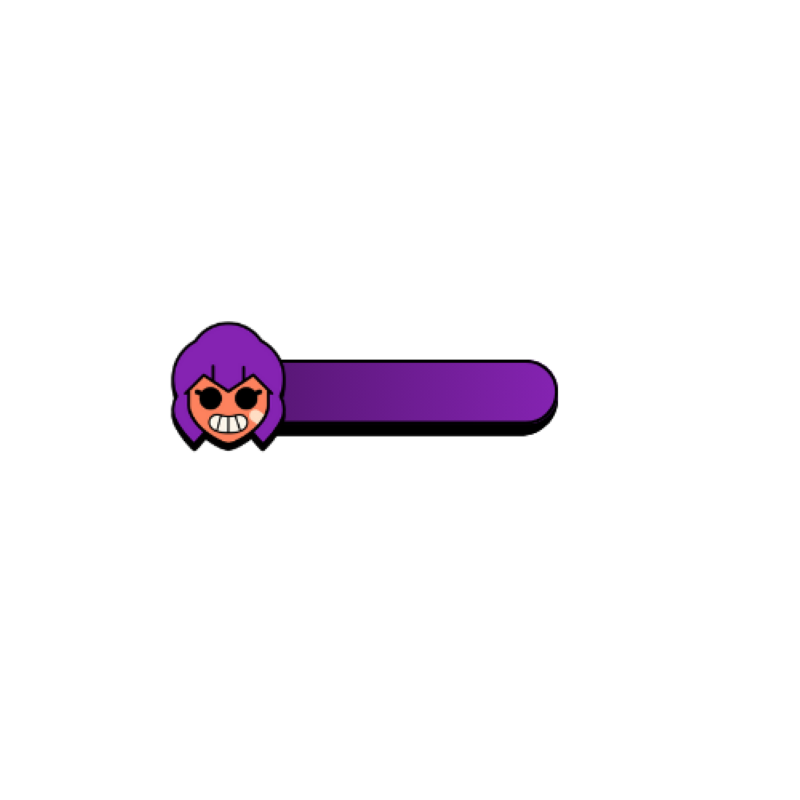
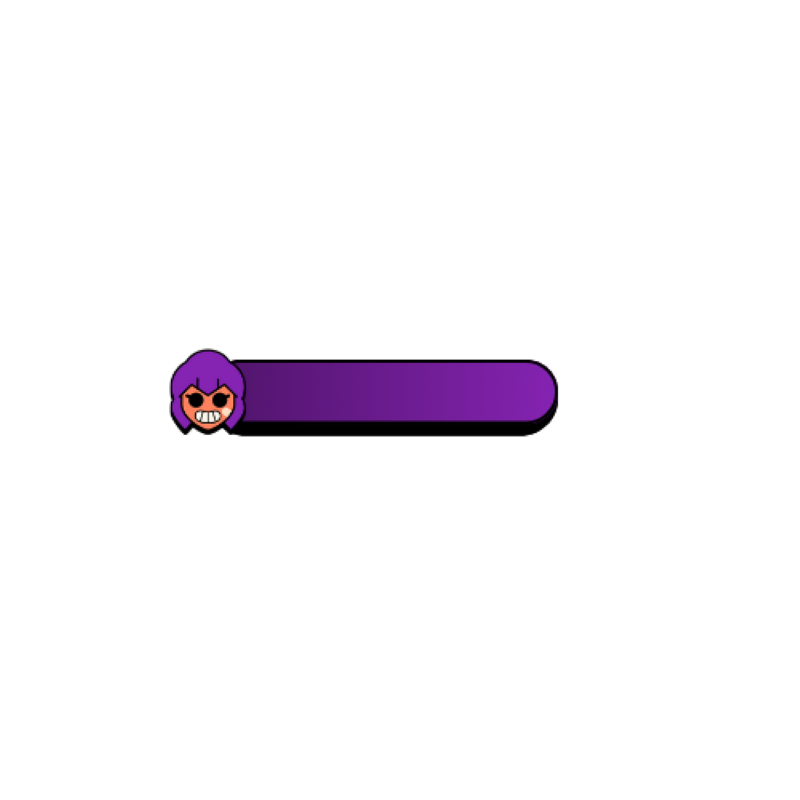
feat: add level display

Changed region(s): [[0.1875, 0.375, 0.375, 0.5625]]

diff --git a/methods.py b/methods.py
@@ -7,6 +7,7 @@ imageDraw = ImageDraw.Draw(image)
 
 display_trophies = Image.open("assets/img/display_trophies_bar.png")
 display_max_trophies = Image.open("assets/img/display_max_trophies_bar.png")
+display_level = Image.open("assets/img/display_level_bar.png")
 
 def _change_font(size):
     font = ImageFont.truetype("assets/fonts/lilitaone-regular-webfont (2).ttf", size)
@@ -25,7 +26,6 @@ def profile(data):
     name_color = data['nameColor']
     trophies = data['trophies']
     highest_trophies = data['highestTrophies']
-    exp = data['expPoints']
     level = data['expLevel']
     solo_win = data['soloVictories']
     duo_win = data['duoVictories']
@@ -45,12 +45,16 @@ def profile(data):
     imageDraw.text((215, 0), name, fill=name_color, font=_change_font(100))
 
     #Trophies
-    image.paste(display_trophies, (325, -350), mask=display_trophies)
-    imageDraw.text((650, 10), str(trophies), fill="black", font=_change_font(50))
+    image.paste(display_trophies, (325, -335), mask=display_trophies)
+    imageDraw.text((660, 25), str(trophies), fill="black", font=_change_font(50))
 
     #Max Trophies
-    image.paste(display_max_trophies, (325, -225), mask=display_max_trophies)
-    imageDraw.text((650, 135), str(highest_trophies), fill="black", font=_change_font(50))
+    image.paste(display_max_trophies, (325, -230), mask=display_max_trophies)
+    imageDraw.text((660, 130), str(highest_trophies), fill="black", font=_change_font(50))
+
+    #Max Trophies
+    image.paste(display_level, (-60, -235), mask=display_level)
+    imageDraw.text((320, 130), str(level), fill="black", font=_change_font(50))
 
 
     return image
